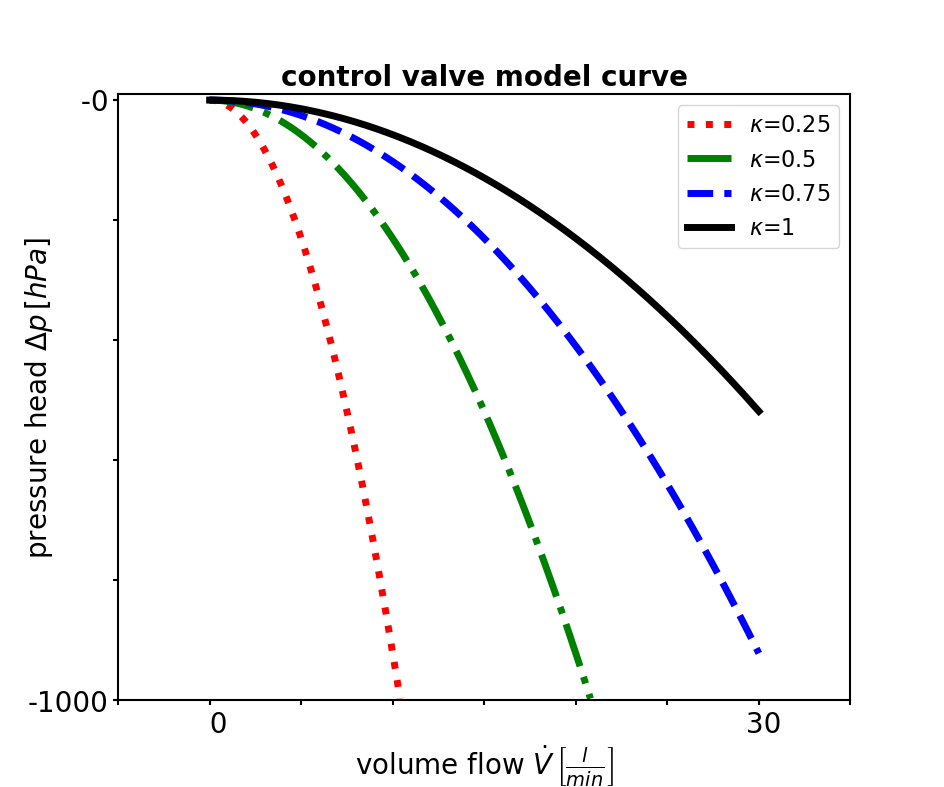
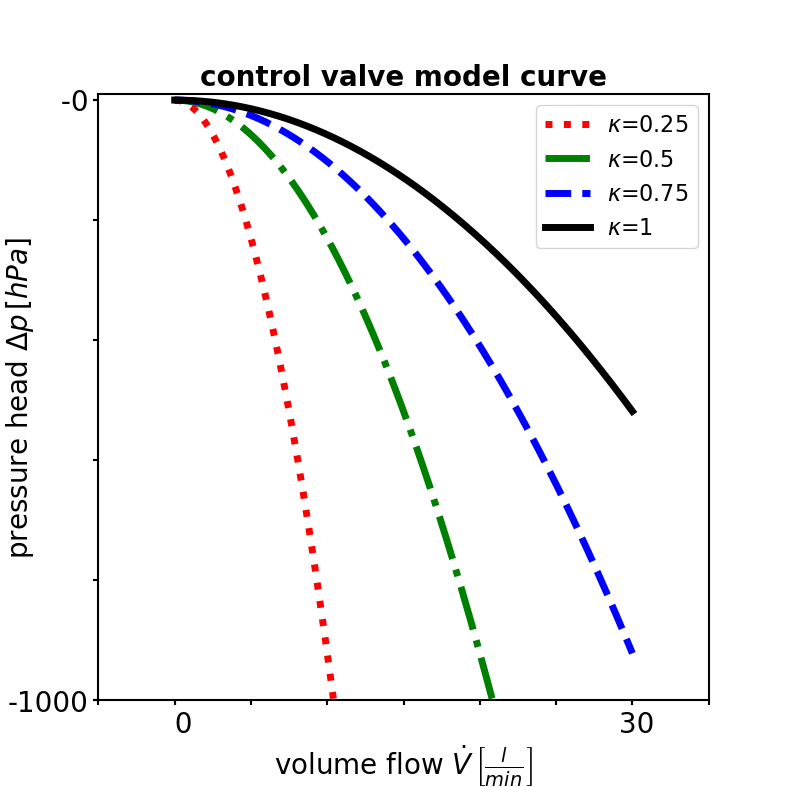
size change valve visualization

diff --git a/Z2_visualize_component_models_schemes.py b/Z2_visualize_component_models_schemes.py
@@ -25,7 +25,7 @@ plt.close(fig='all')
 ############################ general parameters ############################
 
 myfigsize = [2*20.0/2.54, 2*10.0/2.54]
-myfigsize2= [2*12.0/2.54, 2*10.0/2.54]
+myfigsize2= [2*10.0/2.54, 2*10.0/2.54]
 myfontsize = 20
 mythickness = 5
 mylinestyles = [':', '-.', '--', '-']
